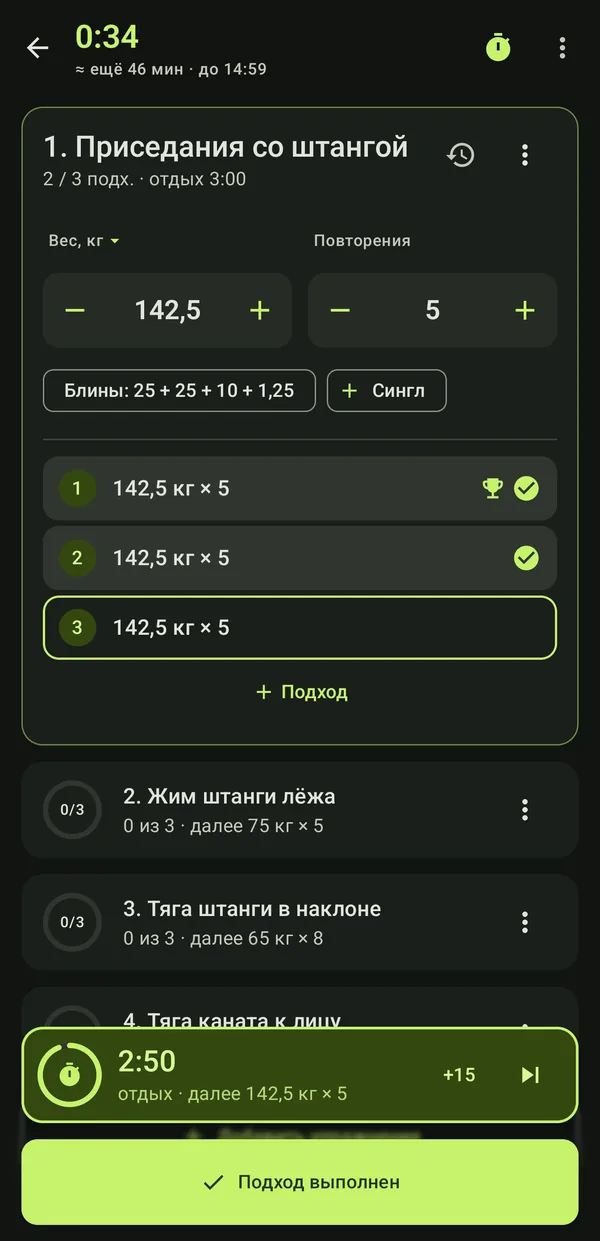
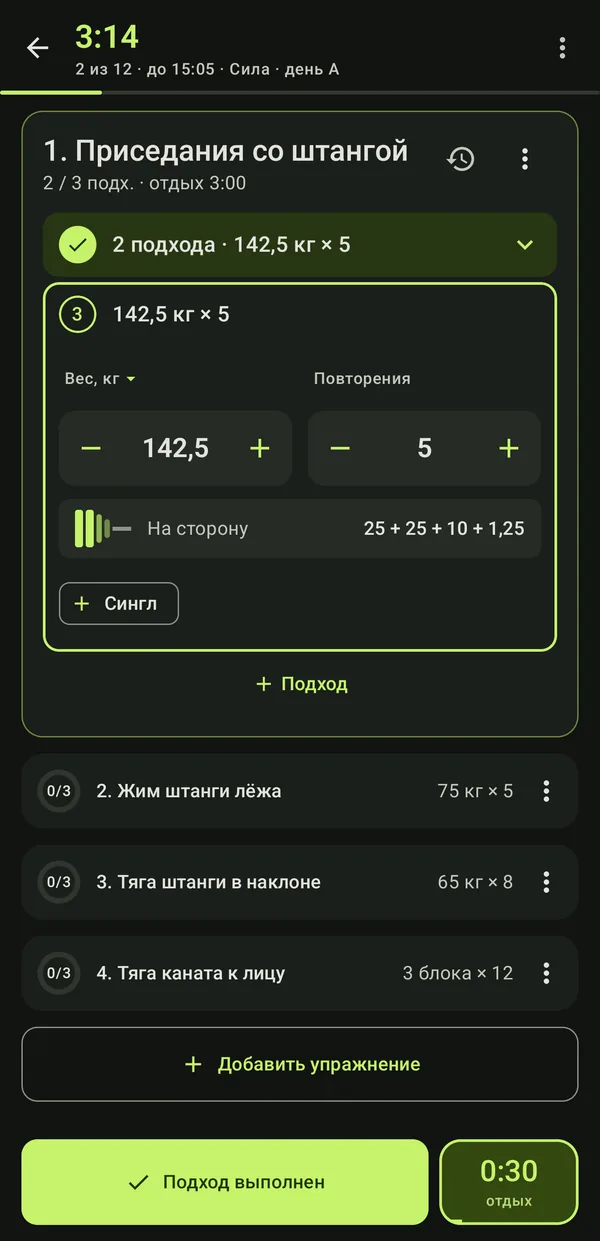
Скриншот тренировки после редизайна (тёмный и светлый)

diff --git a/index.html b/index.html
@@ -191,8 +191,8 @@
             <figcaption>Главная<span>Неделя, рекорды и что приложение про тебя заметило</span></figcaption>
           </figure>
           <figure class="shot reveal">
-            <img class="shot__img shot__img--dark" src="screens/workout.webp?v=4" width="600" height="1241" loading="lazy" decoding="async" alt="Экран «Тренировка»: подходы, блины на сторону, рекорды и таймер отдыха">
-            <img class="shot__img shot__img--light" src="screens/workout-light.webp?v=4" width="600" height="1241" loading="lazy" decoding="async" alt="Экран «Тренировка»: подходы, блины на сторону, рекорды и таймер отдыха">
+            <img class="shot__img shot__img--dark" src="screens/workout.webp?v=5" width="600" height="1241" loading="lazy" decoding="async" alt="Экран «Тренировка»: выполненные подходы свёрнуты, текущий раскрыт с блинами на сторону, отдых рядом с главной кнопкой">
+            <img class="shot__img shot__img--light" src="screens/workout-light.webp?v=5" width="600" height="1241" loading="lazy" decoding="async" alt="Экран «Тренировка»: выполненные подходы свёрнуты, текущий раскрыт с блинами на сторону, отдых рядом с главной кнопкой">
             <figcaption>Тренировка<span>Подходы, блины и таймер, который не даст залипнуть в рилсы</span></figcaption>
           </figure>
           <figure class="shot reveal">

diff --git a/index-users.html b/index-users.html
@@ -191,8 +191,8 @@
             <figcaption>Главная<span>Неделя, план, что заметили и итоги недели</span></figcaption>
           </figure>
           <figure class="shot reveal">
-            <img class="shot__img shot__img--dark" src="screens/workout.webp?v=4" width="600" height="1241" loading="lazy" decoding="async" alt="Экран «Тренировка»: подходы, блины на сторону, рекорды и таймер отдыха">
-            <img class="shot__img shot__img--light" src="screens/workout-light.webp?v=4" width="600" height="1241" loading="lazy" decoding="async" alt="Экран «Тренировка»: подходы, блины на сторону, рекорды и таймер отдыха">
+            <img class="shot__img shot__img--dark" src="screens/workout.webp?v=5" width="600" height="1241" loading="lazy" decoding="async" alt="Экран «Тренировка»: выполненные подходы свёрнуты, текущий раскрыт с блинами на сторону, отдых рядом с главной кнопкой">
+            <img class="shot__img shot__img--light" src="screens/workout-light.webp?v=5" width="600" height="1241" loading="lazy" decoding="async" alt="Экран «Тренировка»: выполненные подходы свёрнуты, текущий раскрыт с блинами на сторону, отдых рядом с главной кнопкой">
             <figcaption>Тренировка<span>Подходы, блины на сторону, рекорды и таймер отдыха</span></figcaption>
           </figure>
           <figure class="shot reveal">
